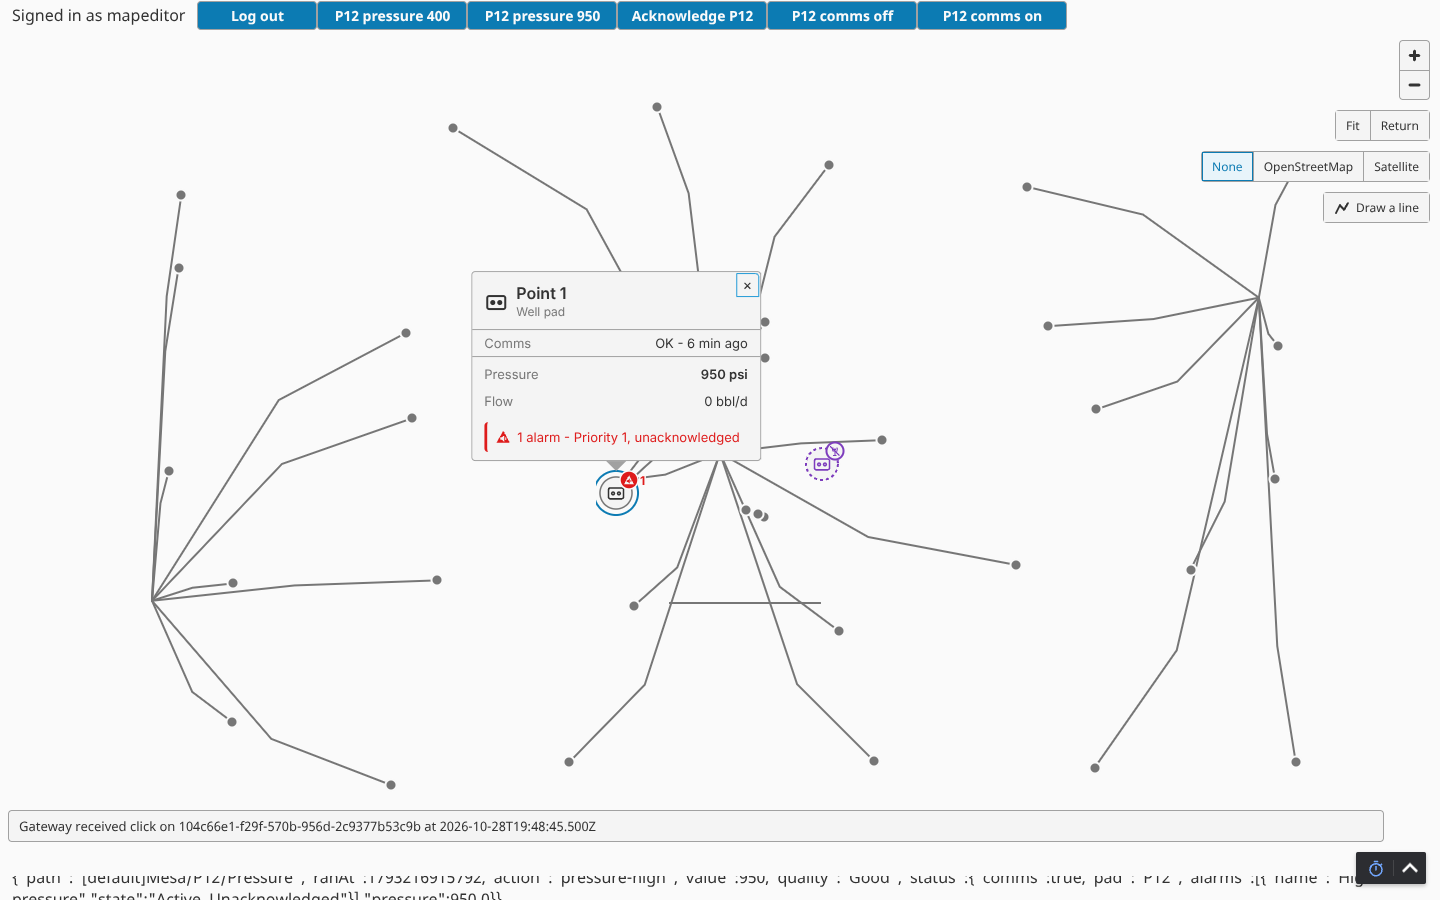
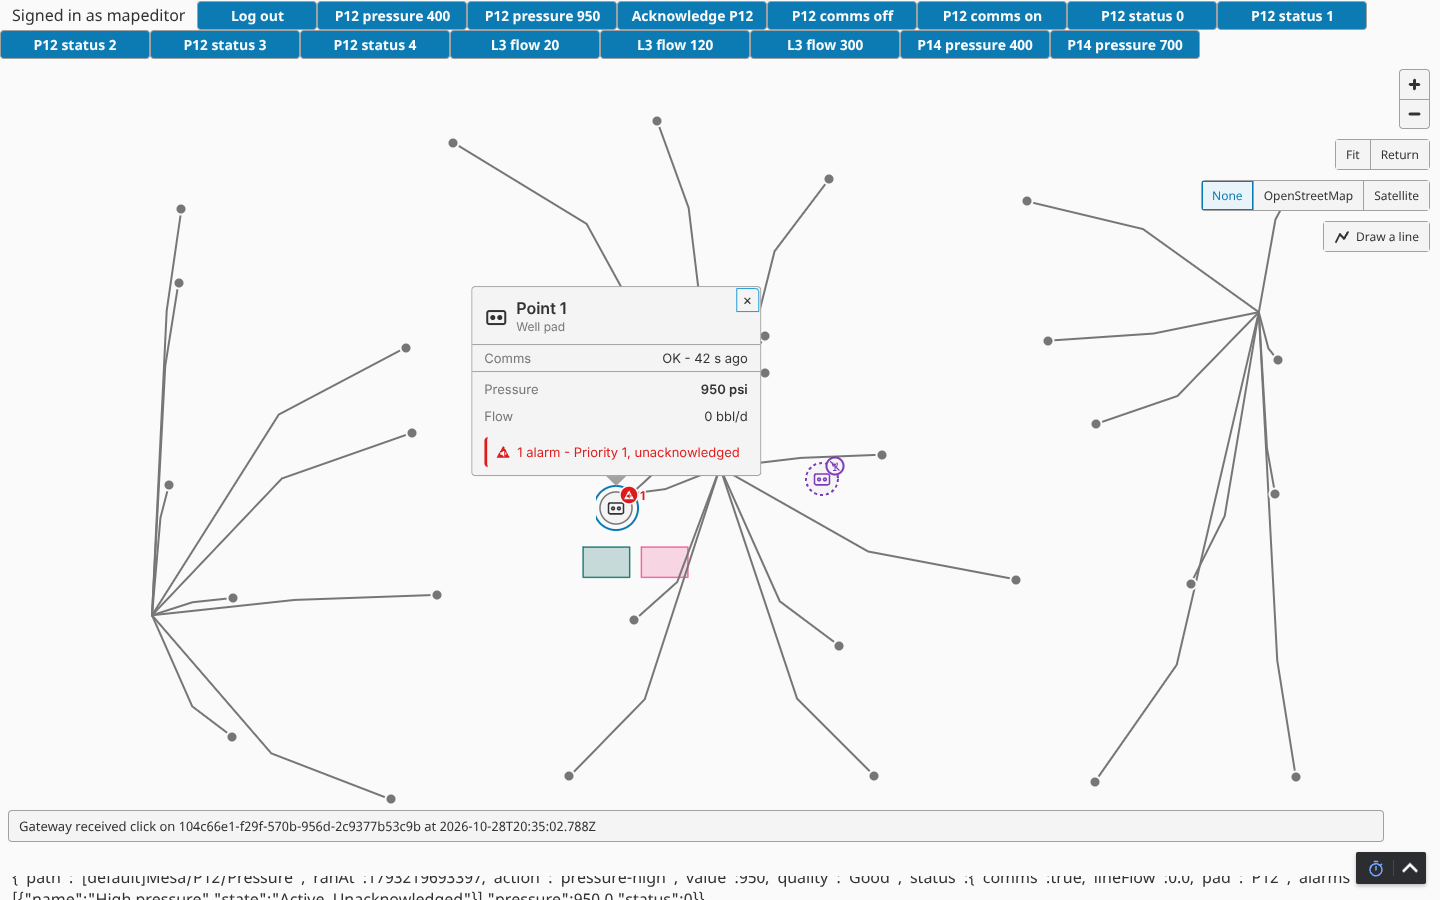
Live evidence for the style rules: the platform checks, the screenshots, the preview tile chips wrap (epic 3 entry 1)
Claude-Session: https://claude.ai/code/session_01F9eVq2cpkcDNszUXqy4YfF

diff --git a/web/typescript/mapstudio.css b/web/typescript/mapstudio.css
@@ -316,8 +316,9 @@
 
 .mapstudio-style-preset {
     display: flex;
+    flex-wrap: wrap;
     align-items: baseline;
-    gap: 6px;
+    gap: 4px 6px;
 }
 
 .mapstudio-style-preset-name {

diff --git a/docs/platform-checks.md b/docs/platform-checks.md
@@ -801,3 +801,23 @@ Labels: **[live 8.3.10]** seen on the dev stack above; **[MapLibre 6.16 source]*
 | The module grows from 872,861 bytes (0.2.0) to about 1.9 MB with the glyphs (2.8 MB uncompressed, 512 files) | **[build]** |
 
 **[not verified]**: a basemap under the labels (the halo is drawn; the suite's tiles are a stub); a name outside ASCII (the width estimate counts 0.6 em per character); a line with a kind setup of its own (no line setup is seeded, so the alarm hue, the midpoint badge and the dash are unit tested in `features.test.ts` and `markers.test.ts` only); a real instrument on a dev line (the weight by pipe size is unit tested; the dev lines have none, so they draw 2 px); a device pixel ratio above 1 (the images scale by it, the glyphs are MapLibre's SDF at any ratio); the owner's laptop.
+
+## Epic 3 entry 1 - style rules evaluated on the Gateway, the Ignition expression included
+
+**Question (architecture AD-16, open until the refinement; the backlog spike `spike-style-rule-expression-language.md`):** can Gateway module code evaluate an Ignition expression against a map item's value, how do errors surface, and what does an evaluation cost?
+
+**Answer:** yes. The SDK's own expression parser (`com.inductiveautomation.ignition.common.expressions.parsing.ELParserHarness`, in `ignition-common`) parses a text with an `ExpressionParseContext` the module writes: `createBoundExpression("value")` hands back a `ConstantExpression` the module sets before each run, and `getFunctionFactory()` hands back the SDK's `DefaultFunctionFactory.getSharedInstance()` wrapped so that `tag`, `runScript` and `hasChanged` are refused; `Expression.execute()` gives a `QualifiedValue`. Seen on the SDK jars in the build's unit tests and on the dev Gateway through Point 2's override rule (`gateway/.../live/StyleExpressions.java`, `StyleExpressionsTest`; `e2e/tests/styles.spec.mjs`). Date: 2026-10-28. Gateway: `inductiveautomation/ignition:8.3.10`, container `ms-68194f0d` on port 9088, PostgreSQL 16, the 0.3.0-SNAPSHOT build of this branch on a fresh volume (`ops/up.sh --fresh`: the Pad UDT gained the dev `Status` tag). Evidence: `e2e/tests/styles.spec.mjs` (three tests), `docs/screenshots/mapstudio-styles-1440.png`, `mapstudio-styles-preview-light-1440.png`, `mapstudio-styles-preview-dark-1440.png`, `mapstudio-styles-390.png`; the expression's own facts: `StyleExpressionsTest` and a scratch run against the SDK jars on this box.
+
+Labels: **[live 8.3.10]** seen on the dev stack above; **[SDK 8.3.0 jars]** run against the SDK's `ignition-common` 8.3.0 jar on this box (the build's unit tests, and a scratch `java` run with the jar's runtime dependencies on the class path), the same classes the Gateway loads; **[SDK 8.3.0 javap]** read from the jars' signatures; **[build]** the Gradle build's unit tests over `FakeTagSubscriber`; **[not verified]** not seen.
+
+| Fact | Evidence |
+| --- | --- |
+| `ELParserHarness.parse(text, context)` is the expression parser: `if({value} > 600, 'warning', 'normal')` with the bound value 700.0 executes to `warning` (a `String`, quality Good), `case({value}, 1, 'attention', 2, 'warning', 'normal')` to `normal`, `{value} > 600` to `true` (a `Boolean`), `{value} * 2` to `1400.0` (a `Double`). `StringParser.newStandardParser_NonLocalized()` is not it: it reads the text as words with embedded references and gives back `if(700.0 > 600, 'warning', 'normal')` as text | **[SDK 8.3.0 jars]** |
+| Errors at parse are `RuntimeException`s with the parser's words: a syntax error (`if(`) says `Syntax Error on Token: 'End of Expression' (Line 0 , Char 0)`; a reference the context does not bind (`{other}`) surfaces as whatever `createBoundExpression` throws (the module's "a style rule may reference {value} only, not {other}"); a denied function surfaces the same way from the function factory. The write path turns each into `invalid` ("Op 0 (<id>): overrides.styleRule.expression: the expression could not be read: ...") so a stored rule always parses | **[SDK 8.3.0 jars]**, **[build]** (`WriteServiceKindCheckTest`) |
+| Errors at run time: `execute()` throws `ExpressionException` for a function that cannot run, and some give a value instead of an error (`toInt({value}) / 0` is `Infinity`, Good); the module treats an exception, a bad quality, null, and any result that is not a preset name of the kind as `normal` with a `style` problem in words for that item | **[SDK 8.3.0 jars]**, **[build]** (`StyleExpressionsTest`) |
+| The default factory holds `tag()` (reads a tag: with no context it gave `-1` at `Uncertain_InitialValue`; with the Gateway's it would read) and `runScript()` (threw `NullPointerException` on the missing script manager); both, and the stateful `hasChanged()`, are refused at parse by the module's factory wrapper. The function names reach the factory in lower case (`runscript`) | **[SDK 8.3.0 jars]** |
+| Cost on this box (4 shared CPUs, JIT warm): 344 ns per `execute()` over 200,000 runs of the `if` expression, 35 microseconds per parse. The module parses once per distinct expression text per plan rebuild and runs once per planned item per batch build, on the live thread; the 30-pad set costs nothing measurable | **[SDK 8.3.0 jars]** |
+| On the dev Gateway: the pad kind's States rule on `{asset.path}/Status` subscribed `[default]Mesa/P12/Status` (one more path per linked pad); writing Status 2 drew Point 1's marker with the warning ring and the chip "Warning" within one refresh interval, 3 fault, 4 "Out of service", 0 back to normal; Pressure 950 drew the alarm badge over the warning ring (`data-marker` holding both `alarm-1-unacknowledged` and `"warning"`); Comms false dropped the style (`style {preset: normal, stale: true, reason: "comms lost"}`) and the word became "Comms lost" until comms were back; the line kind's Bands rule on the Flow KPI (the tracer line linked to `[default]Mesa/Lines/L3`) drew the line attention at 120 and fault at 300 with the chip "Tracer line Attention"; Point 2's override expression `if({value} > 600, 'warning', 'normal')` on `[default]Mesa/P14/Pressure` gave warning at 700 and normal at 400 with no `style` problem; the two geofences drew in `tint-1` and `tint-4` and no point or line had a tint | **[live 8.3.10]** (`styles.spec.mjs`, "a States rule on a point, a Bands rule on a line, ...", 2.3 min with every change inside its interval) |
+| The `/styles` page drew every case of the pad's States rule (4 tiles), the line's Bands rule (3) and the geofence's tints (2), the point palette (5), the line palette (8) and the tint palette (7), each sample an SVG whose paints are the theme's computed values, in the light theme and, after the session's theme switch and a reload, the dark theme; the panel fits a 390 px phone | **[live 8.3.10]** (`styles.spec.mjs`, "the /styles page previews ..." and "the preview panel fits a phone"; the first run found a point tile holds two `svg` elements, the marker image nesting the kind glyph, a test-side expectation) |
+
+**[not verified]**: an expression under load on a real tag system (the dev tags are memory tags); a rule on a tag provider other than `default`; an expression that uses the date functions against a date value (the source is a number, text or boolean on the dev stack); the hue tokens against a real basemap and the 3:1 contrast (entry 12); a host theme that defines the `--mapstudio-*` tokens itself.

diff --git a/_bmad-output/initiative-flowmap/tickets/epic-viewing/tickets/story-value-driven-styles-and-area-category-tints-drawn-from-live-plan.md b/_bmad-output/initiative-flowmap/tickets/epic-viewing/tickets/story-value-driven-styles-and-area-category-tints-drawn-from-live-plan.md
@@ -91,6 +91,13 @@ context:
 
 ## Implementation Notes
 
+- **Commits on the worktree branch** (`worktree-agent-ad2211a00b3765ef7`, baseline `769f3c7`): the plan; 18ef67f (the Gateway: `StyleRule`, `KindDisplay`'s rule and tint projections, `StyleExpressions`, the plan's `style` slot, the cache's style slot, the write path's expression check, tests); 78eea03 (the browser: the slot in `live.ts`, the preset ring and words in `markers.ts`, areas in `features.ts`, the layers, the `previewStyles` prop, `StylePreview.tsx`, Jest over `.tsx`); afc14d7 (the dev stack: the `Status` tag, the three seeded setups, the override, the geofences, the `/live` buttons, `/styles`); 880e9d2 (the e2e spec, the docs, AD-16 and the spike); then the evidence commit (platform checks, screenshots, this plan).
+- **The expression check (step 1).** Run first against the SDK's `ignition-common` 8.3.0 jar on this box (a scratch `java` program, never committed), then in `StyleExpressionsTest` and live through Point 2's override. `ELParserHarness` is the expression parser; `StringParser` is not (it reads text with embedded references). A syntax error, another reference and a denied function all surface at parse as `RuntimeException`s with the parser's words; run-time failures as `ExpressionException` or a value (`/ 0` gives `Infinity`); 344 ns per run, 35 microseconds per parse. So the expression type ships (decision 1); nothing goes to the backlog. The function names reach the factory in lower case, so the deny map carries the canonical spelling for the message.
+- **Decision 2 as built:** the `style` slot is `{preset, stale, reason}` with no value; the source's LiveValue itself is not sent (a `{kpi}` source's value is already in `kpis` when the KPI is on). A `{kpi}` source keeps the KPI's path subscribed even when the KPI is off (the plan reads every KPI's path first).
+- **Decision 4 as built:** `attention` is a 3 px ring in `--mapstudio-attention` (`--neutral-90`, then `--label`), `warning` and `fault` 2.5 px rings, `dimmed` the disc and glyph in a group at 45 % with a 2 2 dashed neutral ring; the marker image id gained the preset as its seventh element (a 6-element id is refused). Dotted lines are a layer of their own (`line-dasharray` is not data-driven) with round caps and `[0.01, 2.2]`; the basemap now inserts under the area fill layer. Areas leave the `lines` collection (no pipeline look, no selection casing) and `data-items-loaded` counts them.
+- **Decision 5 as built:** the panel is a card over the map's left edge (`.mapstudio-style-panel`), scrolling, 420 px or the phone's width; the preview tiles inline the marker SVG through `dangerouslySetInnerHTML` (the module's own generated text, never data). Jest's transform now covers `.tsx` so the component renders with `react-dom/server`.
+- **Tests touched by the shape change:** `MarkerColors` gained `attention`, `warning`, `fault` and `tints` (the two test fixtures), `lineLook` gained `dotted` and `dimmed`, `ItemState` gained an optional `preset`; the designer's `ProjectListsTest` and `ProjectResourcesTest` list the dev pages and gained `/styles`; the seed harness counts 68 items and three kind setups.
+
 ## Plan Change Log
 
 ## Review Triage Log
